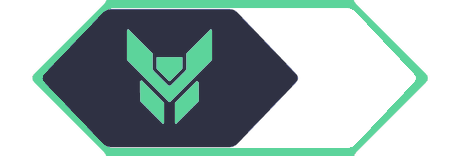
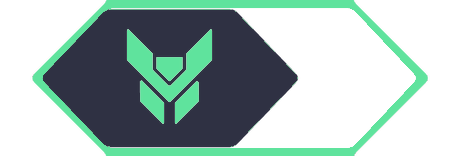
fix:翡翠段位图标与分布图配色统一为亮绿

Changed region(s): [[0.2435, 0.0513, 0.5174, 0.0769], [0.3957, 0.359, 0.4261, 0.4359]]

diff --git a/src/modules/dashen_quick_strength/render.py b/src/modules/dashen_quick_strength/render.py
@@ -65,7 +65,7 @@ COMPETITIVE_STRENGTH_THEME = {
 TOP_TIER_ICON_LEVELS = {6, 7, 8}
 RANK_DISTRIBUTION_COLORS = (
     (207, 120, 86), (196, 201, 200), (217, 164, 59),
-    (149, 213, 179), (92, 211, 156), (93, 163, 241),
+    (149, 213, 179), (95, 227, 157), (93, 163, 241),
     (140, 230, 94), (135, 115, 249), (190, 123, 224),
 )
 

diff --git a/src/modules/internal_rank_distribution/render.py b/src/modules/internal_rank_distribution/render.py
@@ -25,7 +25,7 @@ RANK_COLORS: dict[str, tuple[int, int, int]] = {
     "Silver": (196, 201, 200),
     "Gold": (217, 164, 59),
     "Platinum": (149, 213, 179),
-    "Emerald": (92, 211, 156),
+    "Emerald": (95, 227, 157),
     "Diamond": (93, 163, 241),
     "Master": (140, 230, 94),
     "Grandmaster": (135, 115, 249),
